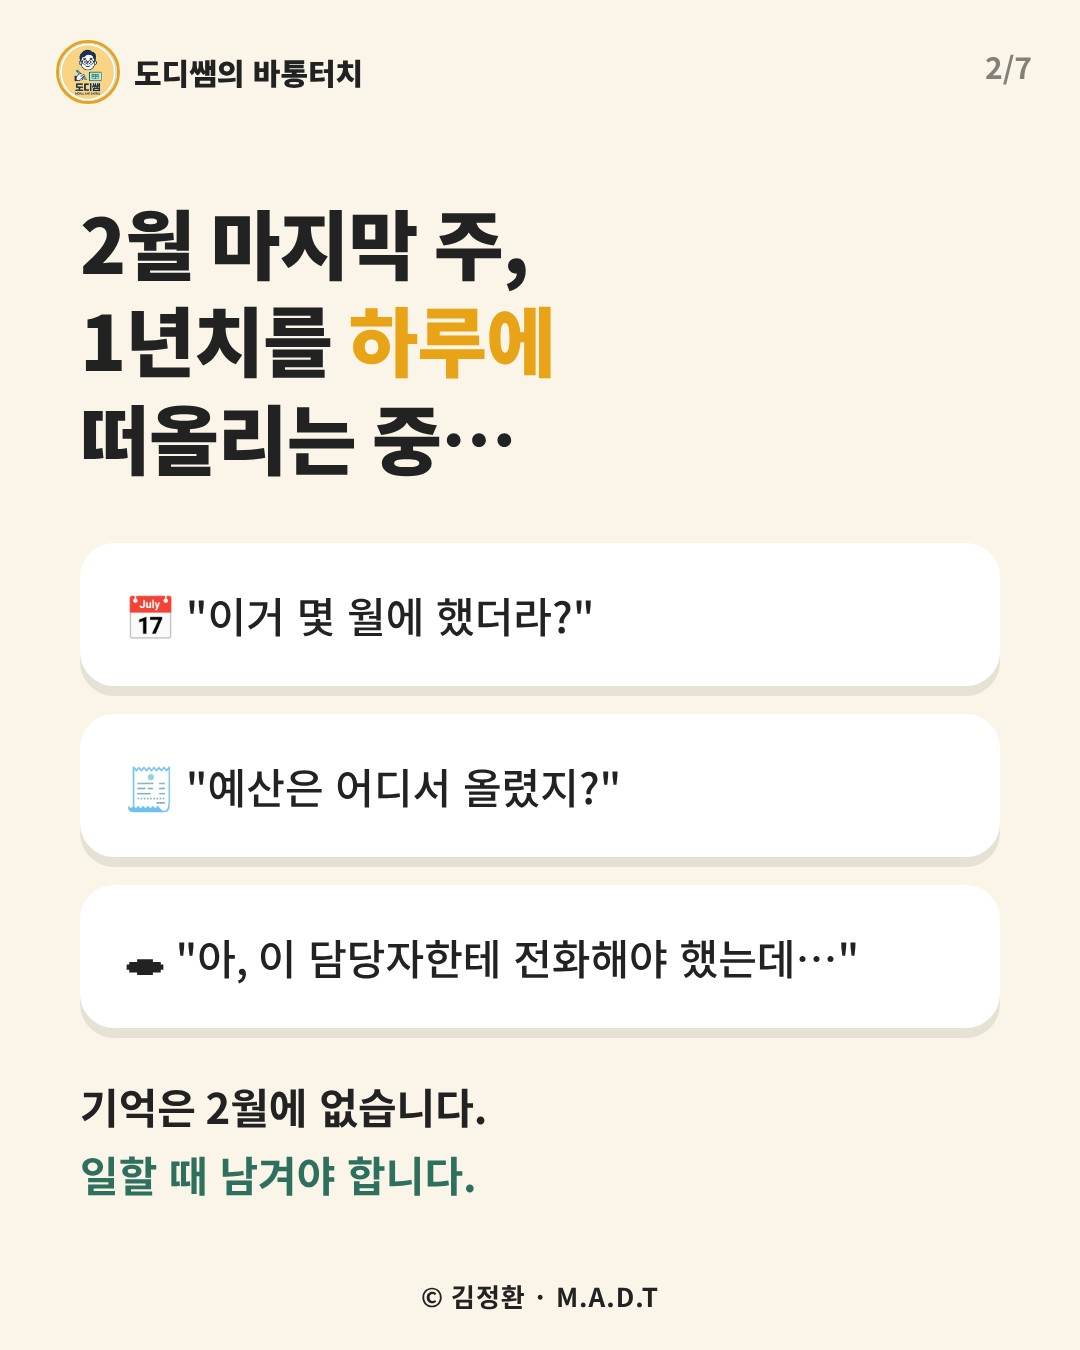
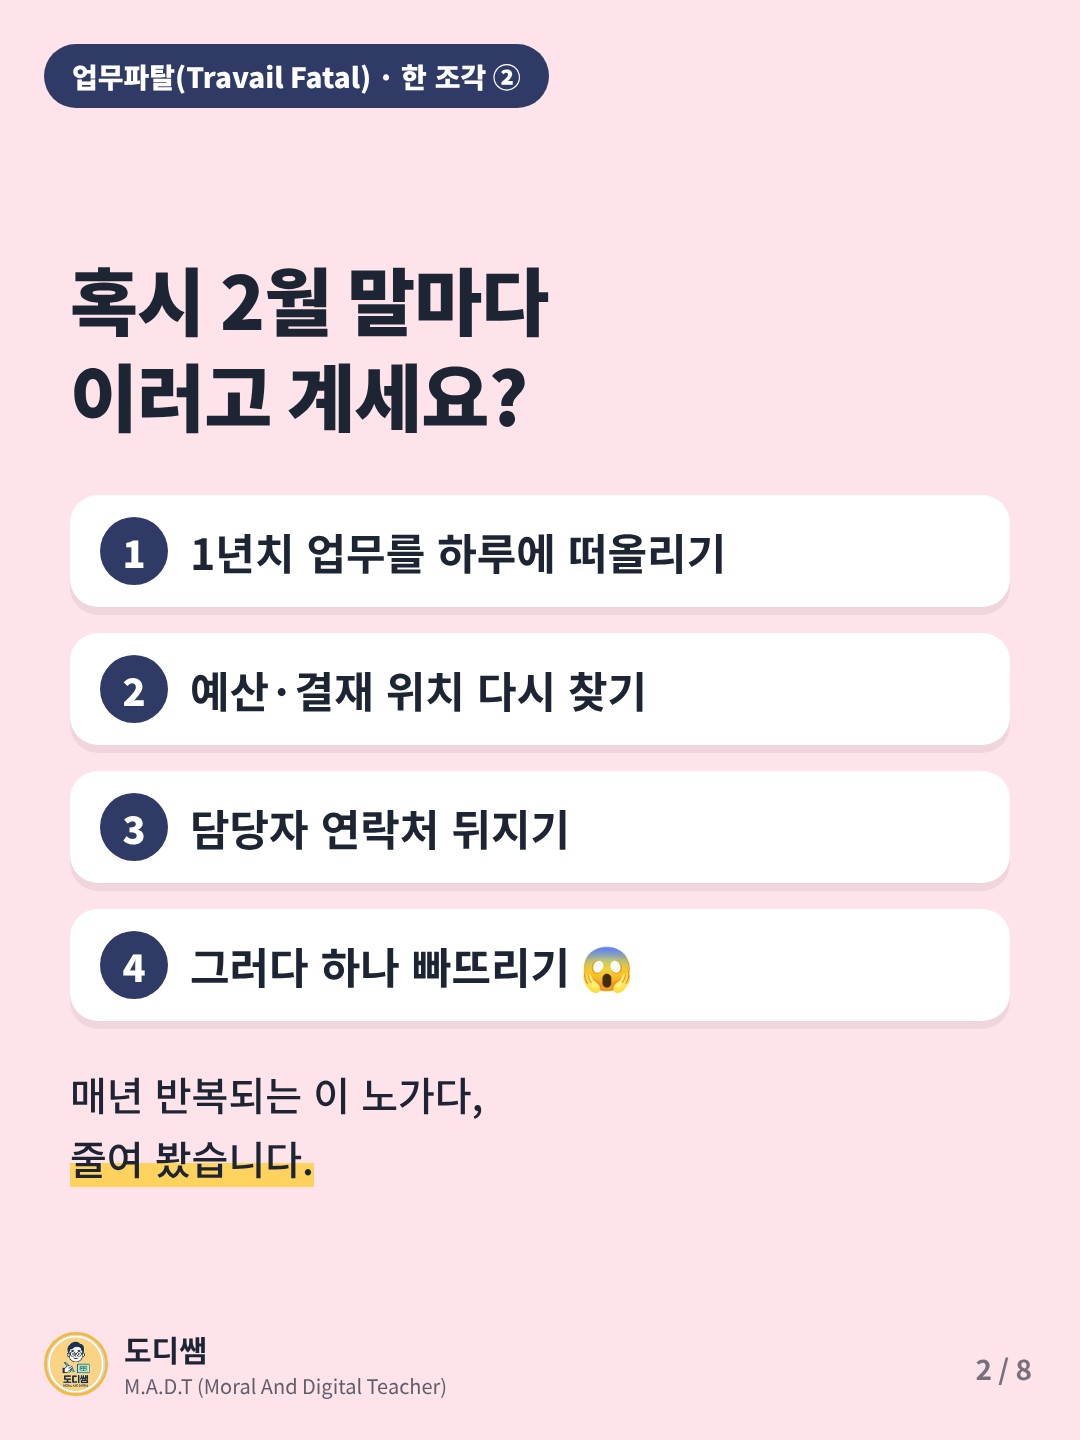
바통터치 카드뉴스: 업무파탈 한 조각 틀로 8장 개편, 마지막 장 잠금 모듈 그리드
Claude-Session: https://claude.ai/code/session_017Th7EWPyVtw3a78QxGutC6

diff --git a/baton/insta/index.html b/baton/insta/index.html
@@ -4,10 +4,10 @@
 figure{margin:16px 0}img{width:100%;border-radius:12px;display:block;box-shadow:0 6px 18px rgba(0,0,0,.12)}figcaption{text-align:center;font-size:13px;color:#888;margin-top:4px}
 pre{white-space:pre-wrap;background:#fff;border-radius:12px;padding:12px;font-size:14px;font-family:inherit}#msg{text-align:center;font-weight:700;color:#2f9e6b;min-height:22px}</style></head><body><div class="w">
 <h1>📸 바통터치 인스타 카드뉴스</h1>
-<button class="btn y" id="all">📥 7장 한 번에 저장·공유</button>
+<button class="btn y" id="all">📥 8장 한 번에 저장·공유</button>
 <button class="btn" data-copy="body">📋 게시글 문구 복사</button>
 <button class="btn" data-copy="dm">💌 DM 문구 복사</button>
-<div id="msg"></div><figure><img src="card1.jpg?v=1" alt="카드 1"><figcaption>1 / 7</figcaption></figure><figure><img src="card2.jpg?v=1" alt="카드 2"><figcaption>2 / 7</figcaption></figure><figure><img src="card3.jpg?v=1" alt="카드 3"><figcaption>3 / 7</figcaption></figure><figure><img src="card4.jpg?v=1" alt="카드 4"><figcaption>4 / 7</figcaption></figure><figure><img src="card5.jpg?v=1" alt="카드 5"><figcaption>5 / 7</figcaption></figure><figure><img src="card6.jpg?v=1" alt="카드 6"><figcaption>6 / 7</figcaption></figure><figure><img src="card7.jpg?v=1" alt="카드 7"><figcaption>7 / 7</figcaption></figure>
+<div id="msg"></div><figure><img src="card1.jpg?v=2" alt="카드 1"><figcaption>1 / 8</figcaption></figure><figure><img src="card2.jpg?v=2" alt="카드 2"><figcaption>2 / 8</figcaption></figure><figure><img src="card3.jpg?v=2" alt="카드 3"><figcaption>3 / 8</figcaption></figure><figure><img src="card4.jpg?v=2" alt="카드 4"><figcaption>4 / 8</figcaption></figure><figure><img src="card5.jpg?v=2" alt="카드 5"><figcaption>5 / 8</figcaption></figure><figure><img src="card6.jpg?v=2" alt="카드 6"><figcaption>6 / 8</figcaption></figure><figure><img src="card7.jpg?v=2" alt="카드 7"><figcaption>7 / 8</figcaption></figure><figure><img src="card8.jpg?v=2" alt="카드 8"><figcaption>8 / 8</figcaption></figure>
 <h1>게시글 문구</h1><pre id="body">바통 넘길 때마다 기억 더듬으시죠? 🏃
 
 2월 마지막 주, 1년치 업무를 하루에 떠올리려면
@@ -41,7 +41,7 @@ const msg=t=>{document.getElementById('msg').textContent=t};
 document.querySelectorAll('[data-copy]').forEach(b=>b.onclick=async()=>{const t=document.getElementById(b.dataset.copy).textContent;
 try{await navigator.clipboard.writeText(t);msg('복사됐어요! 붙여 넣으세요.')}catch(e){const r=document.createRange();r.selectNodeContents(document.getElementById(b.dataset.copy));getSelection().removeAllRanges();getSelection().addRange(r);msg('글이 선택됐어요. [복사]를 누르세요.')}});
 document.getElementById('all').onclick=async()=>{msg('불러오는 중…');
-try{const files=await Promise.all([1,2,3,4,5,6,7].map(async i=>new File([await (await fetch('card'+i+'.jpg?v=1')).blob()],'바통터치_'+i+'.jpg',{type:'image/jpeg'})));
+try{const files=await Promise.all([1,2,3,4,5,6,7,8].map(async i=>new File([await (await fetch('card'+i+'.jpg?v=2')).blob()],'바통터치_'+i+'.jpg',{type:'image/jpeg'})));
 if(navigator.canShare&&navigator.canShare({files})){await navigator.share({files});msg('완료!');return}
 for(const f of files){const a=document.createElement('a');a.href=URL.createObjectURL(f);a.download=f.name;document.body.appendChild(a);a.click();a.remove();await new Promise(r=>setTimeout(r,400))}msg('다운로드 폴더에 저장됐어요.')}
 catch(e){msg(e.name==='AbortError'?'':'사진을 꾹 눌러 저장해 주세요.')}};

diff --git a/baton/STRUCTURE.md b/baton/STRUCTURE.md
@@ -53,5 +53,5 @@ index.html 안의 순서: `<style>`(디자인) → `<body>`(껍데기) → `<scr
 `gtk0624-a11y/Qdice` 저장소의 `baton/` 폴더 → `https://gtk0624-a11y.github.io/Qdice/baton/`
 
 ## 7. 인스타 카드뉴스
-- `baton/insta/` : 카드 7장(card1~7.jpg, 1080×1350) + 게시글·DM 문구 + 한 번에 저장 페이지. 주소 `.../Qdice/baton/insta/`
+- `baton/insta/` : 카드 8장(card1~8.jpg, 1080×1440, 캘린더 카드뉴스와 같은 틀) + 게시글·DM 문구 + 한 번에 저장 페이지. 주소 `.../Qdice/baton/insta/`
 - 화면 워터마크는 제거(상단 © 표기·인쇄물 워터마크는 유지)
